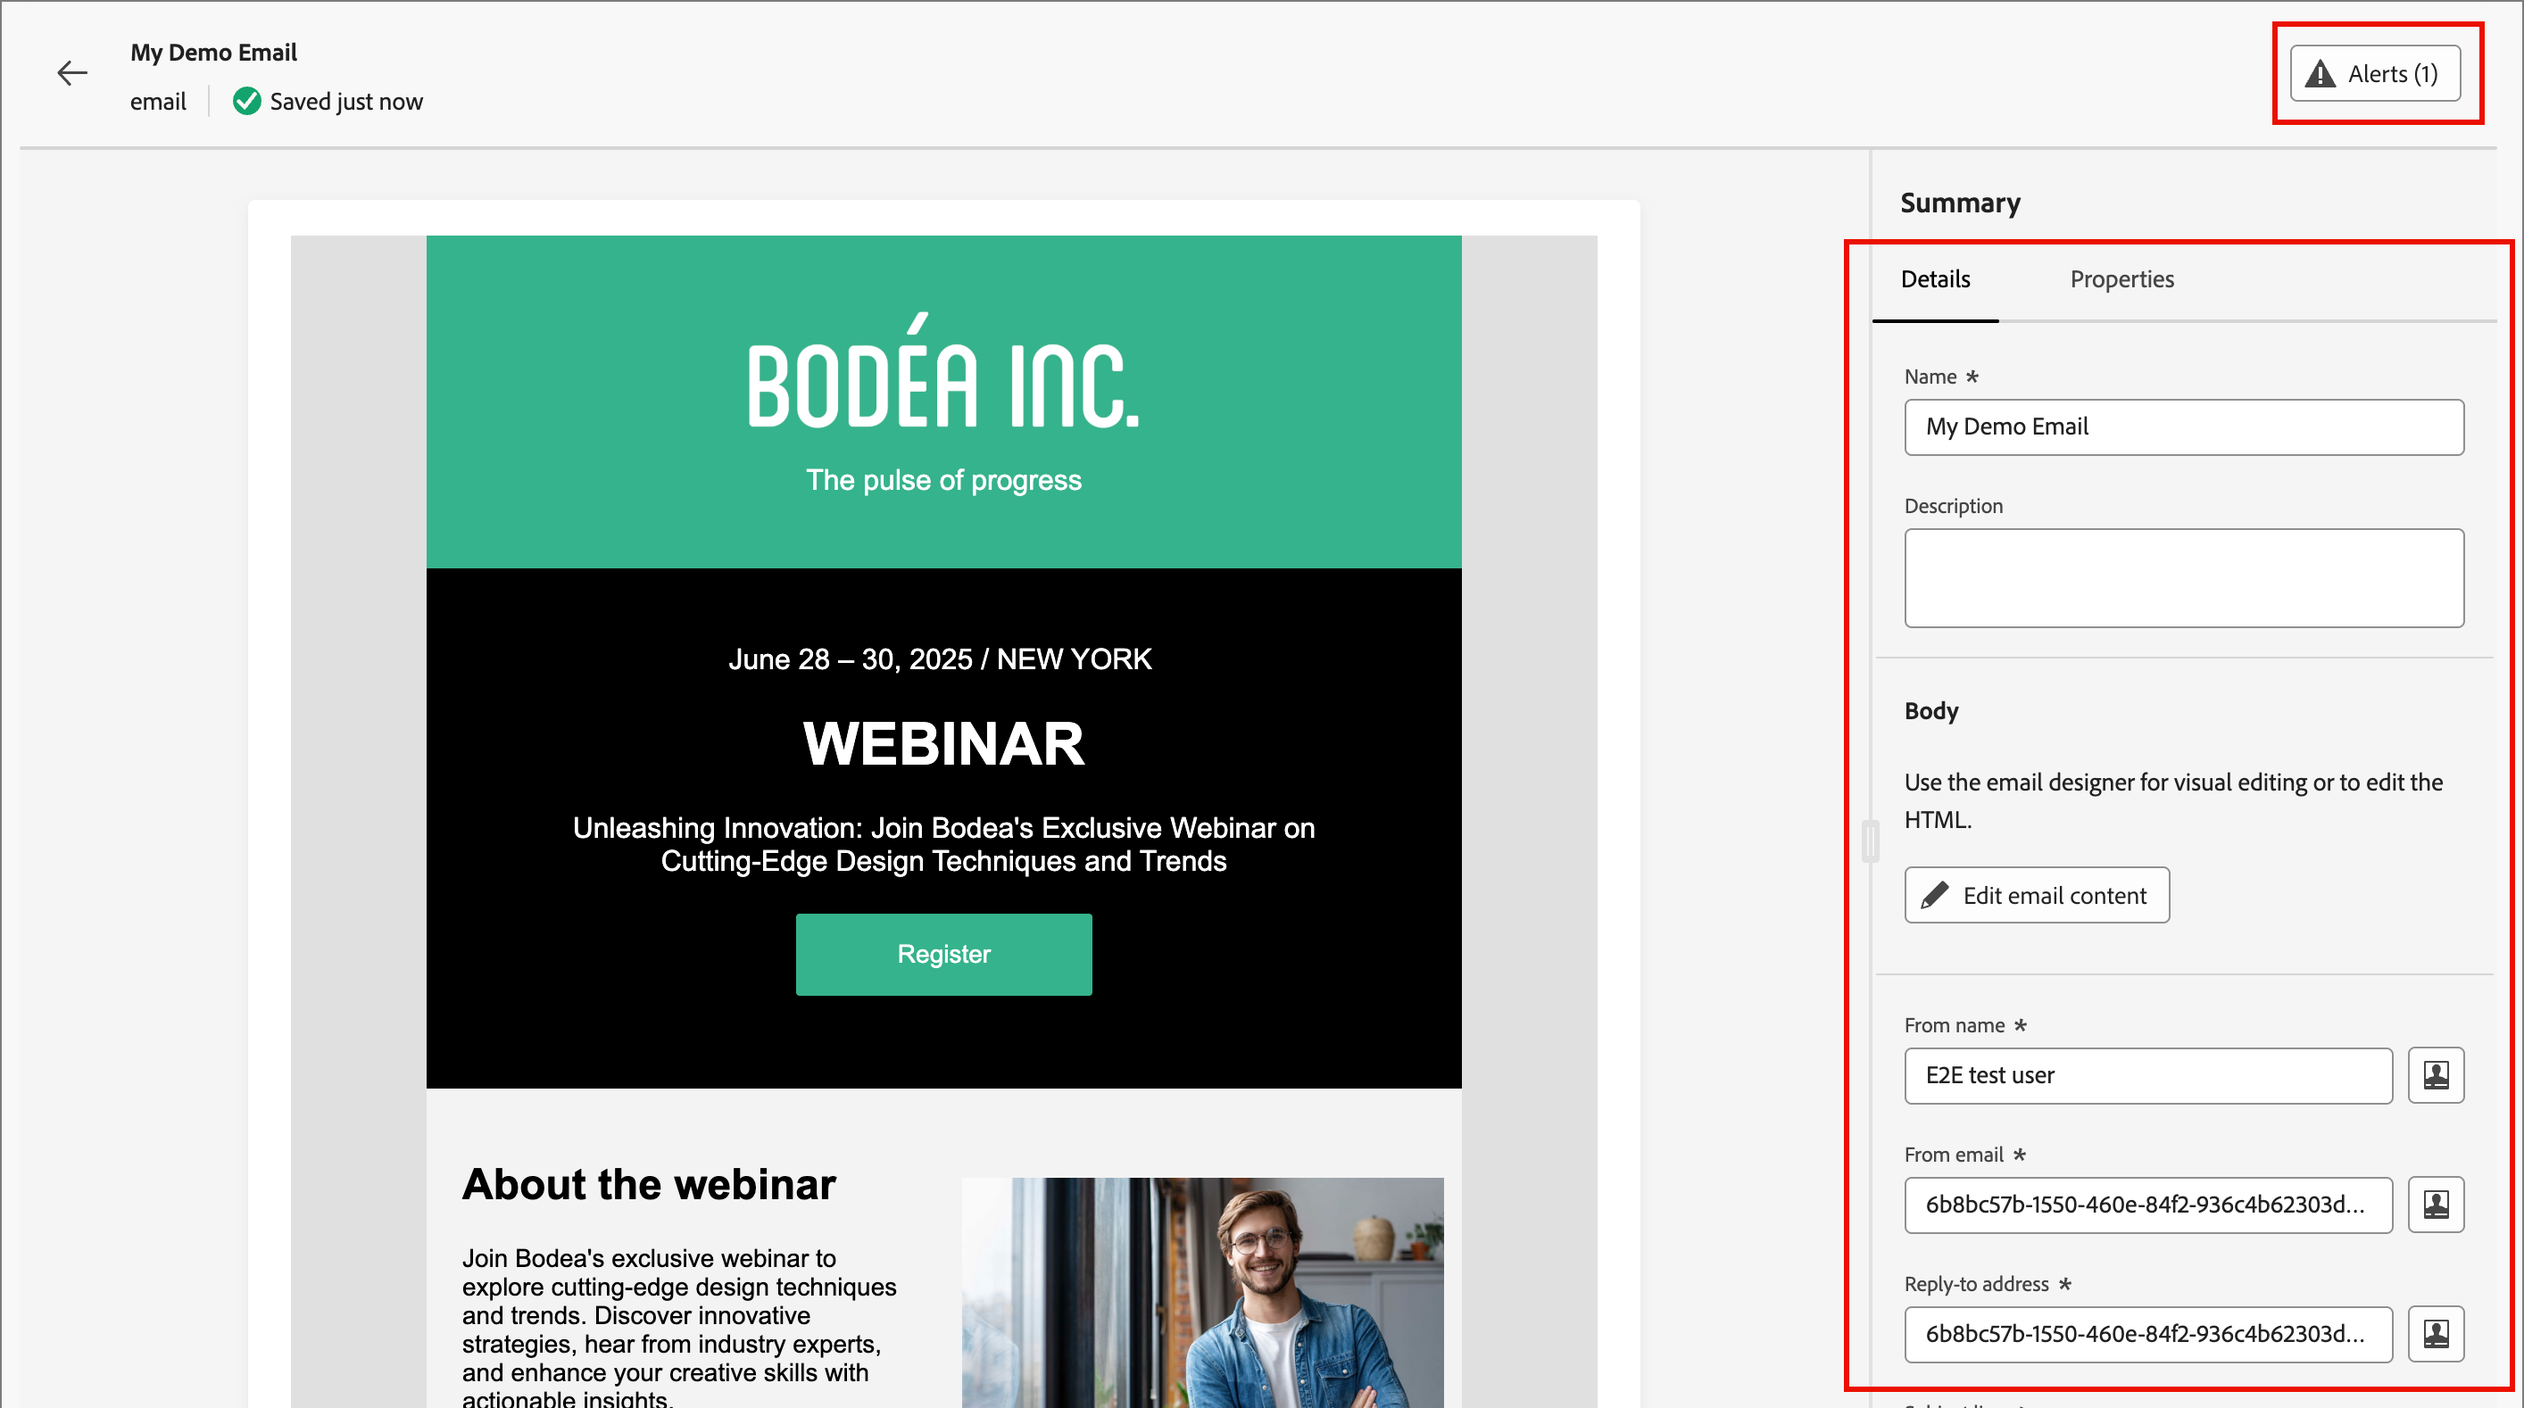
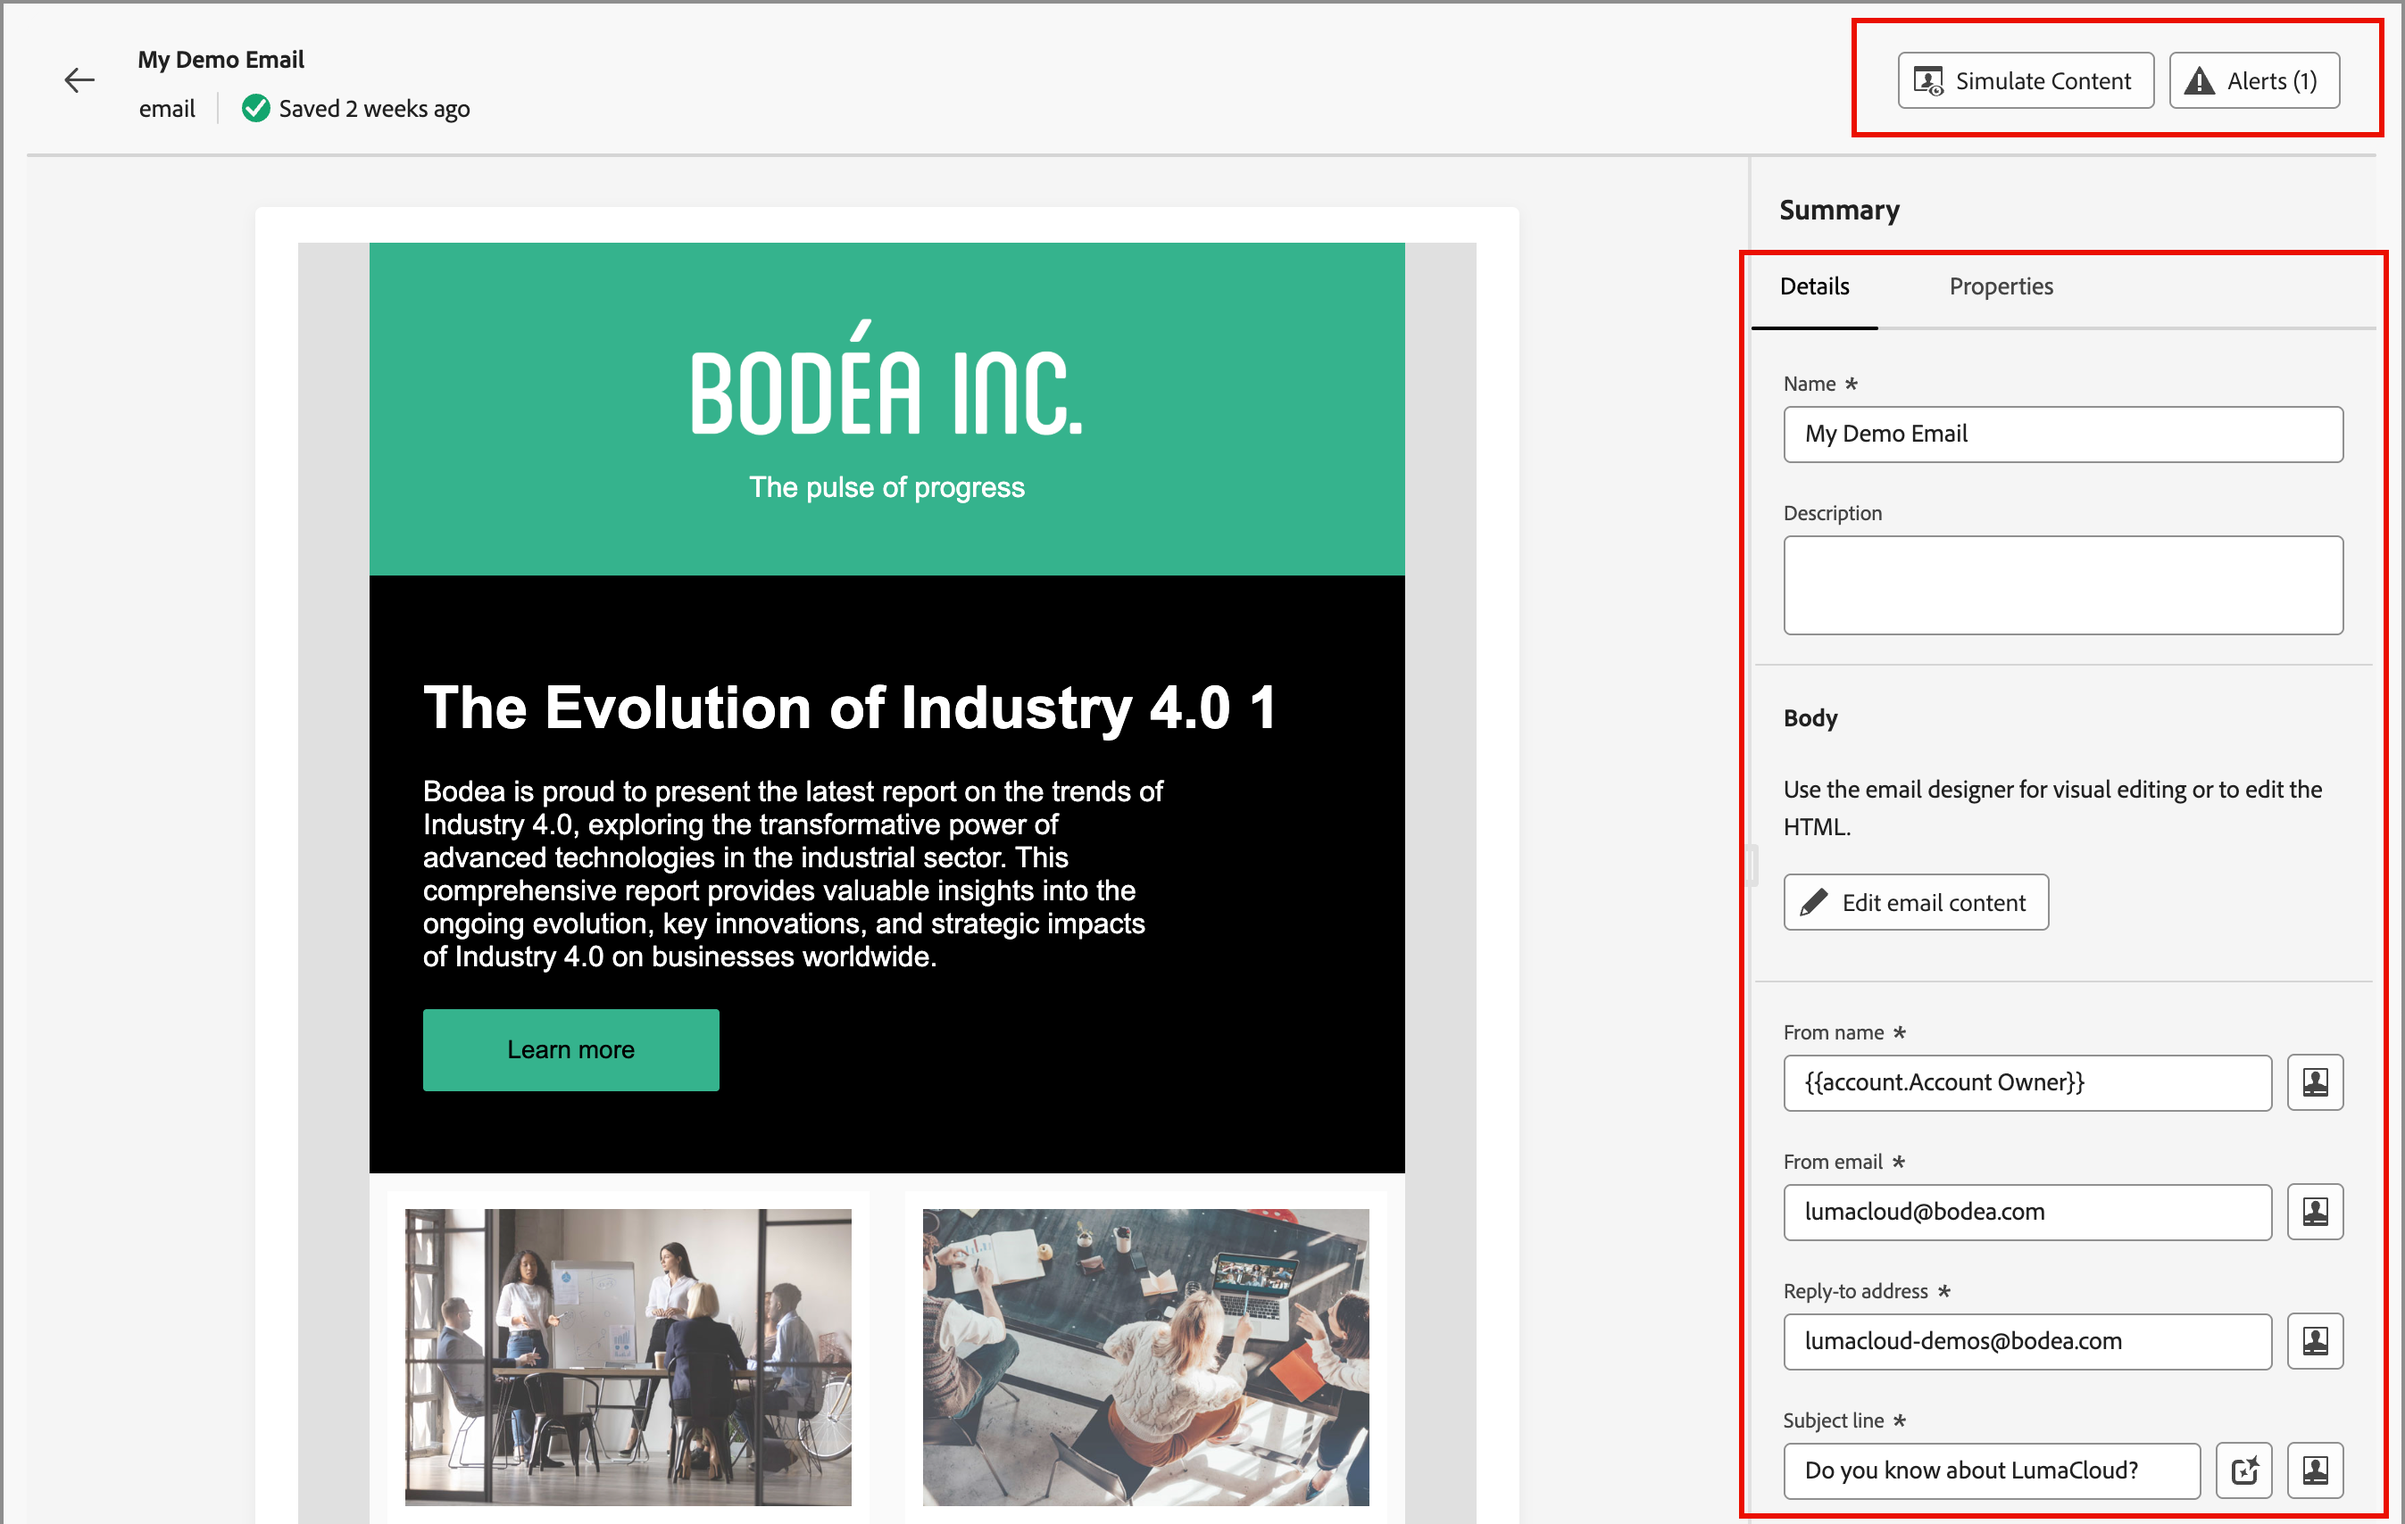
SPHR-17777, updates for email details and summary display

Changed region(s): [[0.0935, 0.1553, 0.6548, 1.0], [0.0, 0.0, 1.0, 1.0]]

diff --git a/help/user/content/add-email.md b/help/user/content/add-email.md
@@ -83,9 +83,9 @@ You can set up email deliveries in a journey when you [add a _[!UICONTROL Take a
 
 ## Define the email settings
 
-With the **[!UICONTROL Details]** tab selected in the _Summary_ panel on the right, scroll to the bottom to view and set the email options.
+With the **[!UICONTROL Details]** tab selected in the _Summary_ panel on the right, scroll to the bottom to view and define the email settings.
 
-![Email settings](./assets/email-summary-details-settings.png){width="600" zoomable="yes"}
+![Email settings](./assets/email-summary-details-settings.png){width="700" zoomable="yes"}
 
 | Option | Description |
 | ------ | ----------- |
@@ -93,6 +93,9 @@ With the **[!UICONTROL Details]** tab selected in the _Summary_ panel on the rig
 | [!UICONTROL From email] | The sender address used in the email header. The default value is populated from the [email channel delivery settings](../admin/configure-channels-emails.md#delivery-settings). Click the _Personalize_ icon ( ![Personalize icon](../assets/do-not-localize/icon-personalize.svg) ) to use a personalization token in the field. |
 | [!UICONTROL Reply-to address] | The sender address used in the email header. The default value is populated from the [email channel delivery settings](../admin/configure-channels-emails.md#delivery-settings) ([!UICONTROL From Label]). Enter the email address that you want to populate if the recipient uses the reply function (it can be different or the same as the sender address). Click the _Personalize_ icon ( ![Personalize icon](../assets/do-not-localize/icon-personalize.svg) ) to use a personalization token in the field.|
 | [!UICONTROL Subject line] | The text displayed in the subject field for the email. The default value is populated from the text that you entered in the _[!UICONTROL Create new email]_ dialog. You can change the text if needed. Click the _Personalize_ icon ( ![Personalize icon](../assets/do-not-localize/icon-personalize.svg) ) to use a personalization token in the field.<!-- Click the AI Assistant button ( ![AI Assistant icon](../../assets/do-not-localize/icon-gen-ai.svg){width="30" zoomable="no"} ) to generate the subject line based on the current email content.--> |
+| [!UICONTROL Branding domain] | If you have more than one [branding domain](../admin/configure-channels-emails.md#branding-domains) defined in the system, select the branding domain to use for sending the email. Use a specific branding domain to send emails that appear to be coming from your brand instead of the company as a whole. It builds trust with the brand, personalizes the email experience, and increases open and response rates. |
+| [!UICONTROL Dedicated IP] | If you have more than one dedicated IP addresses defined, select a dedicated IP address to use for sending the email. When you use a specific dedicated IP for your programs, you can track and monitor deliverability more closely and respond quickly to any changes in your delivery metrics. For more information about adding a dedicated IP for the connected Marketo Engage instance, refer to the [Marketo Engage documentation](https://experienceleague.adobe.com/en/docs/marketo/using/product-docs/email-marketing/deliverability/use-your-dedicated-ip-addresses-to-send-emails){target="_blank"}. |
+Issue resolution - It's easier to research, understand, and resolve delivery issues.|
 | [!UICONTROL Operational email] | Select the checkbox if you want to designate the email as operational. Operational emails are excluded from opt-out/unsubscribe lists, and from communication limits. Select this option only when the recipient cannot consider the email message to be an unsolicited commercial message (SPAM).  |
 | [!UICONTROL Include view as web page] | Select the checkbox to include a link to a web page that is generated from the email message content. Email messages have more limited capabilities than web pages, so it is useful for JavaScript, extended CSS, and forms. The text used to generate the link is configured in the [email channel delivery settings](../admin/configure-channels-emails.md#delivery-settings) ([!UICONTROL View as web page HTML] and [!UICONTROL View as web page text]).  |
 | [!UICONTROL Disable open tracking] | Select the checkbox when you do not want to track email open activity. With the function disabled, email open activity counts are incremented only when a unique person opens the email. You can [manage tracking for email content links](./email-authoring.md#content-authoring---link-tracking) when you design the email body content. |

diff --git a/help/user/admin/configure-channels-emails.md b/help/user/admin/configure-channels-emails.md
@@ -45,11 +45,11 @@ To review the branding domains, click the **[!UICONTROL Branding domains]** tab.
 
 ![Access the branding domains settings](./assets/config-email-delivery-branding-domains.png){width="700" zoomable="yes"}
 
-This setting defines your primary domain for one or more Marketo Engage workspaces. New emails use this domain as the default, but marketers can override it on a per-email basis. For more information, refer to the [Marketo Engage documentation](https://experienceleague.adobe.com/en/docs/marketo/using/product-docs/administration/email-setup/add-multiple-branding-domains/edit-your-default-branding-domain){target="_blank"}.
+This setting defines your primary domain for one or more workspaces in the connected Marketo Engage instance. New emails use this domain as the default, but marketers can [override it on a per-email basis](../content/add-email.md#define-the-email-settings). For more information about defining the default branding domain, refer to the [Marketo Engage documentation](https://experienceleague.adobe.com/en/docs/marketo/using/product-docs/administration/email-setup/add-multiple-branding-domains/edit-your-default-branding-domain){target="_blank"}.
 
 >[!NOTE]
 >
->If you are marketing multiple brands out of Journey Optimizer B2B Edition and the connected Marketo Engage instance and want each to have its own branded tracking links, you can add an additional branding domain. For more information, refer to the [Marketo Engage documentation](https://experienceleague.adobe.com/en/docs/marketo/using/product-docs/administration/email-setup/add-multiple-branding-domains/add-an-additional-branding-domain){target="_blank"}.
+>If you are marketing multiple brands and want each to have its own branded tracking links, you can add an additional branding domain. For more information about adding multiple branding domains, refer to the [Marketo Engage documentation](https://experienceleague.adobe.com/en/docs/marketo/using/product-docs/administration/email-setup/add-multiple-branding-domains/add-an-additional-branding-domain){target="_blank"}.
 
 ### [!UICONTROL Custom header options] {#custom-header-options}
 
@@ -105,7 +105,7 @@ If you already have an SPF record in your DNS entry, add the following to it:
 
 DKIM is an authentication protocol that is used by email receivers to validate the sender of the email message. It often improves the deliverability of emails to the inbox because a receiver can be confident that the message is not a forgery. 
 
-With the public key in your DNS record and the sending domain activated in the connected Marketo Engage instance, custom DKIM signing is used for your outgoing messages. The custom DKIM signing includes an encrypted digital signature with each email that is sent. The receivers are then able to decrypt the digital signature by looking up the _public key_ in your sending domain's DNS. If the key in the email corresponds with the key in the DNS record, the receiving mail server is more likely to accept the email sent through Marketo Engage.
+When you have the public key in your DNS record and the sending domain activated in the connected Marketo Engage instance, custom DKIM signing is used for your outgoing messages. The custom DKIM signing includes an encrypted digital signature with each email that is sent. The receivers are then able to decrypt the digital signature by looking up the _public key_ in your sending domain's DNS. If the key in the email corresponds with the key in the DNS record, the receiving mail server is more likely to accept the email sent through Marketo Engage.
 
 For more information about configuring a custom DKIM signature for email delivery, refer to the [Marketo Engage documentation](https://experienceleague.adobe.com/en/docs/marketo/using/product-docs/email-marketing/deliverability/set-up-a-custom-dkim-signature){target="_blank"}.
 

diff --git a/help/user/content/emails-list.md b/help/user/content/emails-list.md
@@ -19,10 +19,12 @@ To search for an email by name, enter a text string in the search bar. Click the
 
 ![Access the email templates library and filter by name and dates](./assets/emails-list-filtered.png){width="700" zoomable="yes"}
 
-## Edit emails
+## Open and edit emails
 
-Click the email name in th list to open it. You can review and change the [email settings](./add-email.md#define-the-email-settings). Click **[!UICONTROL Edit email content]** to make [updates to the content](./email-authoring.md). 
+Click the email name in the list to open it. You can review and change the [email settings](./add-email.md#define-the-email-settings). Click **[!UICONTROL Edit email content]** to make [updates to the content](./email-authoring.md). 
 
 If [alerts are displayed](./add-email.md#check-alerts) at the top-right of the page, click to review the warnings or errors and address the items as needed.
 
 ![Open the email to make updates](./assets/email-open-update.png){width="700" zoomable="yes"}
+
+You can also access the [_[!UICONTROL Simulate content]_](./email-simulate-content.md) window. Use these tools to preview the content using a test profile, send proofs, and test the email for deliverability and email client rendering. 

diff --git a/help/user/content/email-simulate-content.md b/help/user/content/email-simulate-content.md
@@ -15,9 +15,11 @@ Use the _Simulate content_ feature to preview the email content and send test de
 
 ## Display the email preview
 
-1. From the email design space<!-- or the email properties -->, click **[!UICONTROL Simulate Content]**.
+You can access the rendering preview from the [email design space](./email-authoring.md), or from the _[!UICONTROL Summary]_ when you [open an email from the Emails list](./emails-list.md#edit-emails).
 
-   ![Click Simulate content](assets/email-simulate-content-.png){width="800" zoomable="yes"}
+1. Click **[!UICONTROL Simulate Content]** at the top.
+
+   ![Click Simulate content](assets/email-simulate-content.png){width="800" zoomable="yes"}
 
    >[!NOTE]
    >

diff --git a/help/user/start/email-protocols.md b/help/user/start/email-protocols.md
@@ -55,7 +55,7 @@ For example:
 
 >[!NOTE]
 >
->The `[MktoTrackingLink]` value must be the Default Branding Domain.
+>The `[MktoTrackingLink]` value must be the default [branding domain](../admin/configure-channels-emails.md#branding-domains).
 
 ### Provision the SSL certificate
 
